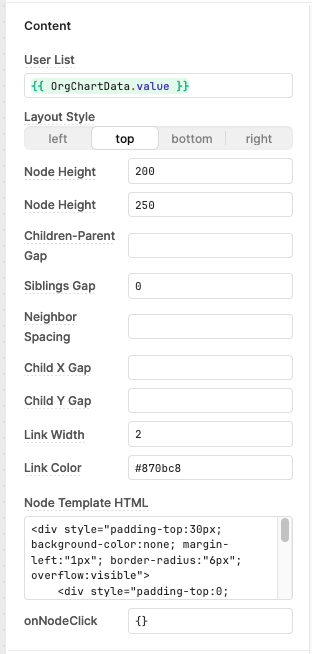
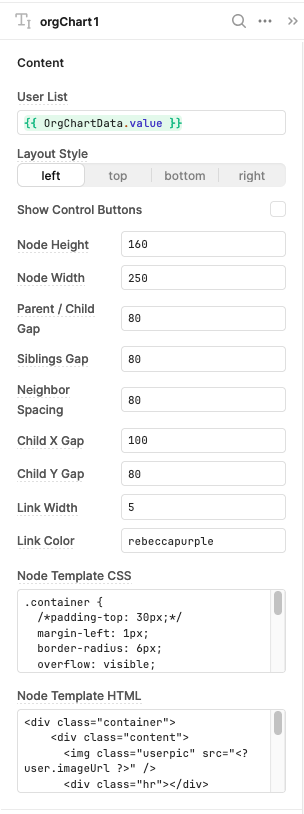
updating readme

diff --git a/README.md b/README.md
@@ -1,9 +1,99 @@
-## Retool Org Chart
+# Retool Org Chart
 
-## Node Template HTML
+Retool Custom Component Wrapper for https://github.com/bumbeishvili/org-chart
 
-This uses [Mustache.js](https://github.com/janl/mustache.js) as the template for the node display.
+![left-tree](./img/left.png)
 
-The delimeters have been set to `%name%` to prevent interferenece with Retool's `{{ vars }}`
+## Configure via Retool Editor
 
 ![alt text](./img/settings.png)
+
+### Node Template CSS & HTML
+
+Under the hood, these two fields use[mustache.js](https://github.com/janl/mustache.js) as a template engine.
+
+The delimeters have been set to `<?` and `?>` to prevent interferenece with Retool's `{{ vars }}`
+
+Both the CSS and HTML have the full user object from the list, within the node, as `<? user.PROP ?>`.
+
+Also available are:
+
+- `<? node.width ?>`
+- `<? node.height ?>`
+- `<? node.lineColor ?>`
+
+## [View Component Options](./OPTIONS.md)
+
+## Examples with variable interpolation
+
+### User List Interface
+
+```ts
+interface IUser {
+  id: string | number; // mandatory
+  parentId: null; // mandatory; `null` for the root or an id of another `IUser`
+  name?: string;
+  email?: string;
+  position?: string;
+  imageUrl?: string;
+}
+```
+
+### Template CSS
+
+```css
+.container {
+  /*padding-top: 30px;*/
+  margin-left: 1px;
+  border-radius: 6px;
+  overflow: visible;
+  height: <? node.height ?>px;
+  background-color: #fff;
+}
+
+.content {
+  height: calc(<? node.height ?>px - 32px);
+}
+
+.userpic {
+  width: 60px;
+  height: 60px;
+  margin-top: -20px;
+  background-color: #fff;
+  margin-left: calc(<? node.width ?>px / 2 - 33px);
+  border-radius: 100px;
+  border: 2px solid <? node.linkColor ?>;
+}
+
+.hr {
+  margin-top: -48px;
+  height: 10px;
+  border-radius: 6px 6px 0 0;
+  background-color: <? node.linkColor ?>;
+}
+
+.footer {
+}
+```
+
+## Example Template HTML
+
+```html
+<div class="container">
+  <div class="content">
+    <img
+      class="userpic"
+      src="<? user.imageUrl ?>"
+    />
+    <div class="hr"></div>
+    <div class="userinfo">
+      <div class="name"><? user.name ?></div>
+      <div class="position"><? user.position ?></div>
+    </div>
+    <div class="footer">
+      <div>Manages: <? user._directSubordinates ?> 👤</div>
+      <div>Oversees: <? user._totalSubordinates ?>👤</div>
+    </div>
+  </div>
+</div>
+```

diff --git a/OPTIONS.md b/OPTIONS.md
@@ -1,0 +1,19 @@
+# Org Chart Options
+| Name | Type | Description | Initial Value | Inspector | Enum Definition |
+|------|------|-------------|---------------|-----------|----------------|
+| User List | array | Array of users with `id` and `parentId` |  |  |  |
+| Layout Style | enumeration | Direction of layout for the tree | left | segmented | left, top, bottom, right |
+| Show Control Buttons | boolean |  | true | checkbox |  |
+| Node Height | number | Height of the rendered node | 200 |  |  |
+| Node Width | number | Width of the rendered node | 250 |  |  |
+| Parent / Child Gap | number | Vertical spacing between parent and children | 60 |  |  |
+| Siblings Gap | number | Horizontal spacing between sibling nodes | 60 |  |  |
+| Neighbor Spacing | number | Horizontal spacing between groups of child nodes | 80 |  |  |
+| Child X Gap | number | Horizontal spacing between sibling child nodes | 100 |  |  |
+| Child Y Gap | number | Vertical spacing between sibling child nodes | 50 |  |  |
+| Link Width | number | Stroke width of the links between nodes | 2 |  |  |
+| Link Color | string | Color for the links between nodes | #FFF |  |  |
+| Node Template CSS | string | CSS for rendering the nodes. Define classes and use them in node HTML. EX: <p class="styled">Hello <? user.name ?></p> |  |  |  |
+| Node Template HTML | string | HTML template for rendering the nodes. User and Node props available as vars to templates. EX: <p>Hello <? user.name ?></p> |  |  |  |
+| onNodeClick | object |  | [object Object] | hidden |  |
+
